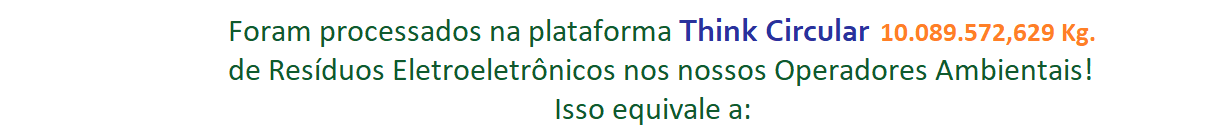
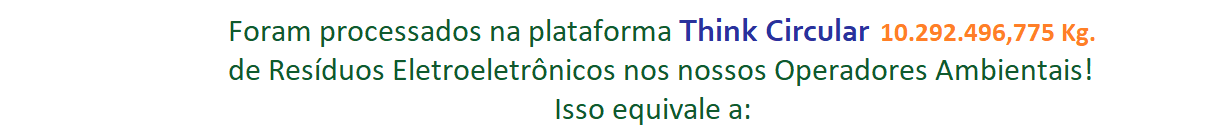
Atualização de Mar23

Changed region(s): [[0.7427, 0.1714, 0.8664, 0.3143]]

diff --git a/frontend/src/components/DataTable/index.tsx b/frontend/src/components/DataTable/index.tsx
@@ -14,19 +14,19 @@ const DataTable = () => {
                     </tr>
                     <tr>
                         <td>BDPWaste</td>
-                        <td>2</td>
-                        <td>11</td>
+                        <td>3</td>
+                        <td>12</td>
                         <td>0</td>
                         <td>331,974</td>
                         <td>0</td>
                     </tr>
                     <tr>
                         <td>Codel</td>
-                        <td>206</td>
-                        <td>357</td>
-                        <td>757</td>
-                        <td>16.477,025</td>
-                        <td>90.949,059</td>
+                        <td>228</td>
+                        <td>377</td>
+                        <td>786</td>
+                        <td>16.017,211</td>
+                        <td>100.778,802</td>
                     </tr>
                     <tr>
                         <td>Ecobras</td>
@@ -62,19 +62,19 @@ const DataTable = () => {
                     </tr>
                     <tr>
                         <td>Natal</td>
-                        <td>515</td>
-                        <td>3.152</td>
-                        <td>498</td>
-                        <td>169.841,419</td>
-                        <td>1.423.387,939</td>
+                        <td>520</td>
+                        <td>3.236</td>
+                        <td>508</td>
+                        <td>155.166,729</td>
+                        <td>1.533.557,773</td>
                     </tr>
                     <tr>
                         <td>Reciclo</td>
-                        <td>1.217</td>
-                        <td>2.255</td>
-                        <td>1.585</td>
-                        <td>61.916,857</td>
-                        <td>2.182.866,970</td>
+                        <td>1.289</td>
+                        <td>2.329</td>
+                        <td>1.638</td>
+                        <td>95.462,483</td>
+                        <td>2.288.199,112</td>
                     </tr>                    
                     <tr>
                         <td>Reeecicle</td>
@@ -93,10 +93,10 @@ const DataTable = () => {
                     </tr>
                     <tr>
                         <td>Sete Ambiental</td>
-                        <td>1.109</td>
-                        <td>879</td>
+                        <td>1.149</td>
+                        <td>920</td>
                         <td>17</td>
-                        <td>92.322,922</td>
+                        <td>135.193,063</td>
                         <td>609,600</td>
                     </tr>
                     <tr>
@@ -110,9 +110,9 @@ const DataTable = () => {
                     <tr>
                         <td>Zero Impacto</td>
                         <td>85</td>
-                        <td>796</td>
+                        <td>839</td>
                         <td>81</td>
-                        <td>78.818,120</td>
+                        <td>87.725,763</td>
                         <td>80.763,105</td>
                     </tr>
                     <tr>
@@ -125,11 +125,11 @@ const DataTable = () => {
                     </tr>
                     <tr>
                         <th>T O T A I S</th>
-                        <th>3.256</th>
-                        <th>7.914</th>
-                        <th>3.369</th>
-                        <th>670.372,669</th>
-                        <th>9.333.765,074</th>
+                        <th>3.395</th>
+                        <th>8.176</th>
+                        <th>3.461</th>
+                        <th>740.561,575</th>
+                        <th>9.559.096,993</th>
                     </tr>
                 </thead>
                 <tbody>

diff --git a/frontend/src/components/BarRecbMensal/index.tsx b/frontend/src/components/BarRecbMensal/index.tsx
@@ -16,12 +16,12 @@ const BarRecbMensal = () => {
     
     const mockData = {
         labels: {
-            categories: ['Jan/21', 'Fev', 'Mar', 'Abr', 'Mai', 'Jun', 'Jul', 'Ago', 'Set', 'Out', 'Nov', 'Dez', 'Jan/22', 'Fev', 'Mar', 'Abr', 'Mai', 'Jun', "Jul", "Ago", "Set", "Out", "Nov", "Dez", "Jan/23"]
+            categories: ['Jan/21', 'Fev', 'Mar', 'Abr', 'Mai', 'Jun', 'Jul', 'Ago', 'Set', 'Out', 'Nov', 'Dez', 'Jan/22', 'Fev', 'Mar', 'Abr', 'Mai', 'Jun', "Jul", "Ago", "Set", "Out", "Nov", "Dez", "Jan/23", "Fev", "Mar"]
         },
         series: [
             {
                 name: "Kg Recebidos",
-                data: [108468, 113628,	123526, 138370, 186067, 187866, 219556, 162479, 257534, 204908, 255846, 235632, 170503, 177506, 183005, 129727, 151077, 156492, 180520, 189042, 220864, 139278, 2174672, 638948, 3023874, 360184]                  
+                data: [108468, 113628,	123526, 138370, 186067, 187866, 219556, 162479, 257534, 204908, 255846, 235632, 170503, 177506, 183005, 129727, 151077, 156492, 180520, 189042, 220864, 139278, 2174672, 638948, 3023874, 360184, 202924]                  
             }
         ]
     };

diff --git a/frontend/src/components/BarReciclMensal/index.tsx b/frontend/src/components/BarReciclMensal/index.tsx
@@ -16,12 +16,12 @@ const BarReciclMensal = () => {
     
     const mockData = {
         labels: {
-            categories: ['Jan/21', 'Fev', 'Mar', 'Abr', 'Mai', 'Jun', 'Jul', 'Ago', 'Set', 'Out', 'Nov', 'Dez', 'Jan/22', 'Fev', 'Mar', 'Abr', 'Mai', 'Jun', 'Jul', "Ago", "Set", "Out", "Nov", "Dez", "Jan/23"]
+            categories: ['Jan/21', 'Fev', 'Mar', 'Abr', 'Mai', 'Jun', 'Jul', 'Ago', 'Set', 'Out', 'Nov', 'Dez', 'Jan/22', 'Fev', 'Mar', 'Abr', 'Mai', 'Jun', 'Jul', "Ago", "Set", "Out", "Nov", "Dez", "Jan/23", "Fev", "Mar"]
         },
         series: [
             {
                 name: "Kg Reciclados",
-                data: [26339, 90712, 93643, 142116, 166545, 219788, 189244, 197028, 209382, 176002, 176982, 162728, 128780, 136990, 181336, 84713, 112874, 154528, 138325, 172608, 207822, 160358, 1986182, 743296, 2188760, 1086686]                  
+                data: [26339, 90712, 93643, 142116, 166545, 219788, 189244, 197028, 209382, 176002, 176982, 162728, 128780, 136990, 181336, 84713, 112874, 154528, 138325, 172608, 207822, 160358, 1986182, 743296, 2188760, 1086686, 225332]                  
             }
         ]
     };

diff --git a/frontend/src/components/DonutChart/index.tsx b/frontend/src/components/DonutChart/index.tsx
@@ -3,7 +3,7 @@ import Chart from 'react-apexcharts';
 const DonutChart = () => {
 
     const mockData = {
-        series: [0, 90.949, 46.304, 0, 9.459, 25.501, 1423.388, 2182.867, 0.184, 5473.740, 0.610, 0, 80.763],
+        series: [0, 100.779, 46.304, 0, 9.459, 25.501, 1533.558, 2288.199, 0.184, 5473.740, 0.610, 0, 80.763],
         labels: ['BDPWaste', 'Codel', 'Ecobras', 'Ecodescarte', 'EcoTI - BA', 'EcoTI - SE', 'Natal', 'Reciclo', 'Reeecicle', 'RFR Reciclagem' , 'Sete Ambiental', 'WEEE', 'Zero Impacto']
     }
     

diff --git a/frontend/src/components/BarChart/index.tsx b/frontend/src/components/BarChart/index.tsx
@@ -17,7 +17,7 @@ const BarChart = () => {
             series: [
             {
                 name: "Ton Reciclados",
-                data: [0, 90.949, 46.304, 0, 9.459, 25.501, 1423.388, 2182.867, 0.184, 5473.740, 0.610, 0, 80.763]                  
+                data: [0, 100.779, 46.304, 0, 9.459, 25.501, 1533.558, 2288.199, 0.184, 5473.740, 0.610, 0, 80.763]                  
             }
         ]
     };

diff --git a/frontend/src/components/BarOSs/index.tsx b/frontend/src/components/BarOSs/index.tsx
@@ -22,7 +22,7 @@ const BarOSs = () => {
         series: [
             {
                 name: "OS's Abertas",
-                data: [11, 357, 17, 6, 64, 158, 3152, 2255, 206, 12, 879, 12, 796]                  
+                data: [12, 377, 17, 6, 64, 158, 3236, 2329, 206, 12, 920, 12, 839]                  
             }
         ]
     };

diff --git a/frontend/src/components/BarODs/index.tsx b/frontend/src/components/BarODs/index.tsx
@@ -22,7 +22,7 @@ const BarODs = () => {
             series: [
             {
                 name: "OD's Abertas",
-                data: [0, 757, 23, 0, 49, 52, 498, 1585, 1, 235, 17, 71, 81]                  
+                data: [0, 786, 23, 0, 49, 52, 508, 1638, 1, 235, 17, 71, 81]                  
             }
         ]
     };

diff --git a/frontend/src/components/BarOTs/index.tsx b/frontend/src/components/BarOTs/index.tsx
@@ -22,7 +22,7 @@ const BarOTs = () => {
         series: [
             {
                 name: "OT's Abertas",
-                data: [2, 206, 0, 37, 24, 14, 515, 1217, 49, 0, 1109, 0, 85]                  
+                data: [3, 228, 0, 37, 24, 14, 520, 1289, 49, 0, 1149, 0, 85]                  
             }
         ]
     };
